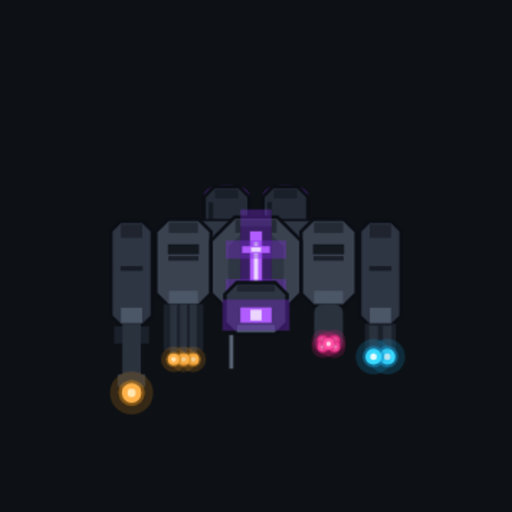
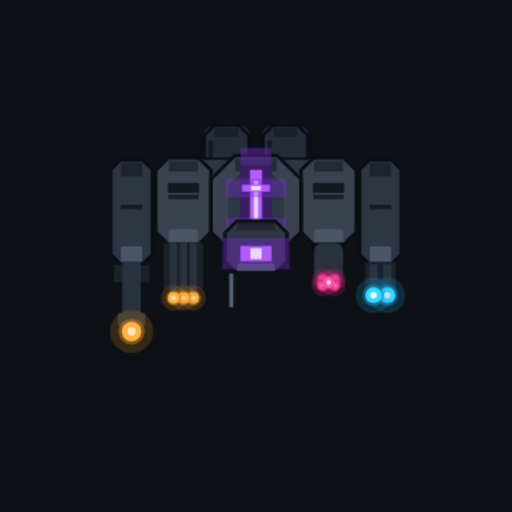
Updates

Changed region(s): [[0.2188, 0.25, 0.8125, 0.8125]]

diff --git a/sw.js b/sw.js
@@ -1,1 +1,1 @@
-if(!self.define){let e,i={};const n=(n,s)=>(n=new URL(n+".js",s).href,i[n]||new Promise(i=>{if("document"in self){const e=document.createElement("script");e.src=n,e.onload=i,document.head.appendChild(e)}else e=n,importScripts(n),i()}).then(()=>{let e=i[n];if(!e)throw new Error(`Module ${n} didn’t register its module`);return e}));self.define=(s,o)=>{const r=e||("document"in self?document.currentScript.src:"")||location.href;if(i[r])return;let c={};const f=e=>n(e,r),t={module:{uri:r},exports:c,require:f};i[r]=Promise.all(s.map(e=>t[e]||f(e))).then(e=>(o(...e),c))}}define(["./workbox-9c191d2f"],function(e){"use strict";self.skipWaiting(),e.clientsClaim(),e.precacheAndRoute([{url:"registerSW.js",revision:"baf99537c497eacdc3effd032c7e3990"},{url:"manifest.webmanifest",revision:"28293ef433bda4e50b1ba12fef4e70e1"},{url:"index.html",revision:"f11e75986b24aba7d15b07c5ab364b2f"},{url:"icons/icon-maskable-512.png",revision:"5f9919b2b1b48ec30f4af7896cd0a9af"},{url:"icons/icon-512.png",revision:"433f61505ca546671ce2afd9a057c66e"},{url:"icons/icon-192.png",revision:"6e61170ab2818b0dd304def586f8c466"},{url:"assets/index-DOtlig7_.js",revision:null},{url:"icons/icon-192.png",revision:"6e61170ab2818b0dd304def586f8c466"},{url:"icons/icon-512.png",revision:"433f61505ca546671ce2afd9a057c66e"},{url:"icons/icon-maskable-512.png",revision:"5f9919b2b1b48ec30f4af7896cd0a9af"},{url:"manifest.webmanifest",revision:"28293ef433bda4e50b1ba12fef4e70e1"}],{}),e.cleanupOutdatedCaches(),e.registerRoute(new e.NavigationRoute(e.createHandlerBoundToURL("index.html")))});
+if(!self.define){let e,i={};const n=(n,s)=>(n=new URL(n+".js",s).href,i[n]||new Promise(i=>{if("document"in self){const e=document.createElement("script");e.src=n,e.onload=i,document.head.appendChild(e)}else e=n,importScripts(n),i()}).then(()=>{let e=i[n];if(!e)throw new Error(`Module ${n} didn’t register its module`);return e}));self.define=(s,o)=>{const r=e||("document"in self?document.currentScript.src:"")||location.href;if(i[r])return;let f={};const c=e=>n(e,r),d={module:{uri:r},exports:f,require:c};i[r]=Promise.all(s.map(e=>d[e]||c(e))).then(e=>(o(...e),f))}}define(["./workbox-9c191d2f"],function(e){"use strict";self.skipWaiting(),e.clientsClaim(),e.precacheAndRoute([{url:"registerSW.js",revision:"baf99537c497eacdc3effd032c7e3990"},{url:"manifest.webmanifest",revision:"28293ef433bda4e50b1ba12fef4e70e1"},{url:"index.html",revision:"f11e75986b24aba7d15b07c5ab364b2f"},{url:"icons/icon-maskable-512.png",revision:"a0cd73ba960be9726b72d70bed0378b5"},{url:"icons/icon-512.png",revision:"f556dd8d8db50f51761b4883e5c253f2"},{url:"icons/icon-192.png",revision:"297a5353d2cfff6292dfd9b6419b091c"},{url:"assets/index-DOtlig7_.js",revision:null},{url:"icons/icon-192.png",revision:"297a5353d2cfff6292dfd9b6419b091c"},{url:"icons/icon-512.png",revision:"f556dd8d8db50f51761b4883e5c253f2"},{url:"icons/icon-maskable-512.png",revision:"a0cd73ba960be9726b72d70bed0378b5"},{url:"manifest.webmanifest",revision:"28293ef433bda4e50b1ba12fef4e70e1"}],{}),e.cleanupOutdatedCaches(),e.registerRoute(new e.NavigationRoute(e.createHandlerBoundToURL("index.html")))});